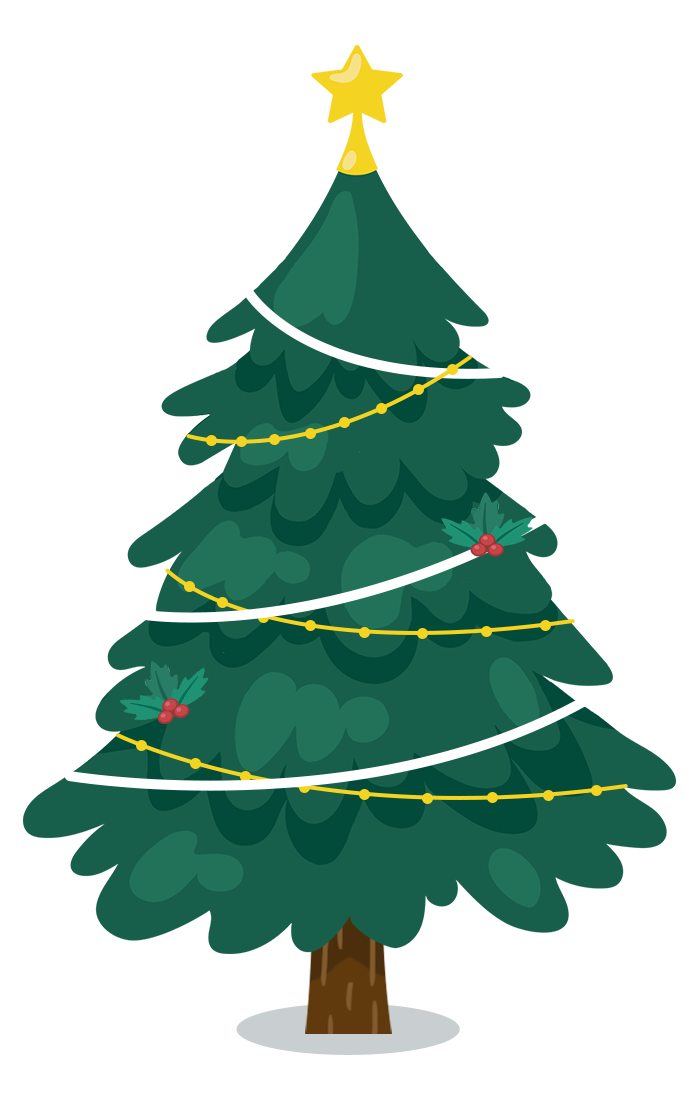
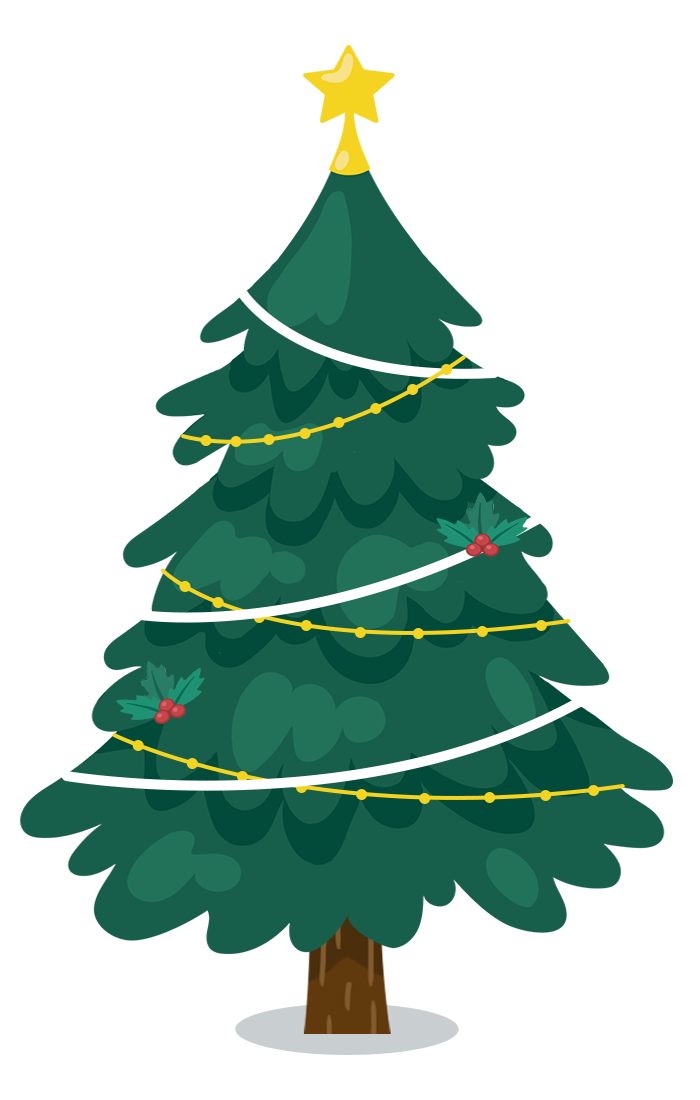
🎄 update page

diff --git a/src/components/Lamp.vue b/src/components/Lamp.vue
@@ -1,0 +1,145 @@
+<template>
+  <div class="lamp" :style="{
+    'transform': `translate3d(${offset.x}px, ${offset.y}px, 0)`
+  }">
+    <svg viewBox="0 0 320 320" :width="width" :height="width">
+      <circle cx="160" cy="10" r="4" fill="#e0eedc" />
+      <circle cx="160" cy="22" r="4" fill="#e0eedc" />
+      <path d="M 160 60 l 20 0 l -8 -30 l -24 0 l -8 30 Z" fill="#e0eedc" />
+      <mask :id="maskId">
+        <path class="path" v-if="d" :d="d" fill="white" />
+      </mask>
+      <path class="path" v-if="d" :d="d" :fill="color0" />
+      <g class="texture" :mask="`url(#${maskId})`"><texture :typeIndex="t1" v-if="color1" scale="1.4" :fill="color1" /></g>
+      <g class="texture" :mask="`url(#${maskId})`"><texture :typeIndex="t2" v-if="color2" scale="1.2" :fill="color2" /></g>
+      <g class="texture" :mask="`url(#${maskId})`"><texture :typeIndex="t3" v-if="color3" scale="1.0" :fill="color3" /></g>
+      <path class="path" v-if="d" :d="d" fill="none" stroke="#e0eedc" stroke-width="10" />
+    </svg>
+  </div>
+</template>
+
+<script>
+import { Texture } from '../texture'
+
+const _S = 20 // subdivision
+const PI_S = 2 * Math.PI / _S
+const sinS = []
+const cosS = []
+for (let i = 0; i < _S; i++) {
+  sinS.push(Math.sin(PI_S * i))
+  cosS.push(Math.cos(PI_S * i))
+}
+
+const genControlPoints = (points) => {
+  const dis = points.map((p, i, points) => {
+    let prev = i - 1
+    if (prev < 0) {
+      prev += points.length
+    }
+    const prevP = points[prev]
+    return Math.sqrt(Math.pow(p.x - prevP.x, 2) + Math.pow(p.y - prevP.y, 2))
+  })
+  let p1 = points[points.length - 1]
+  const controlPoints = points.map((p, i, points) => {
+    let next = i + 1
+    if (next >= points.length) {
+      next -= points.length
+    }
+    const p2 = points[next]
+    const v1 = [(p1.x - p.x) / dis[i], (p1.y - p.y) / dis[i]]
+    const v2 = [(p2.x - p.x) / dis[next], (p2.y - p.y) / dis[next]]
+    const tangent = [v2[0] - v1[0], v2[1] - v1[1]]
+    const cpLeft = {
+      x: p.x - tangent[0] * dis[i] * 0.15,
+      y: p.y - tangent[1] * dis[i] * 0.15
+    }
+    const cpRight = {
+      x: p.x + tangent[0] * dis[next] * 0.15,
+      y: p.y + tangent[1] * dis[next] * 0.15
+    }
+    p1 = p
+    return { cpLeft, cpRight }
+  })
+
+  return controlPoints
+}
+
+const decodeColor = (hex) => {
+  const value = Number('0x' + hex)
+  if (!value) {
+    return ''
+  }
+  const b = value % 128
+  const h = (value - b) / 128
+  return `hsl(${h}, 100%, ${b / 2}%)`
+}
+
+export default {
+  name: 'Lamp',
+  props: ['info', 'size', 'offset'],
+  data () {
+    return {
+      d: '',
+      t1: 0,
+      t2: 0,
+      t3: 0,
+      color0: '',
+      color1: '',
+      color2: '',
+      color3: ''
+    }
+  },
+  computed: {
+    maskId () {
+      return 'mask-' + this.info
+    },
+    width () {
+      return this.size || 66 + 'px'
+    }
+  },
+  created () {
+    const info = this.info.replace(/0x/, '')
+    const pointS = info.substr(0, 40).match(/\w{2}/g).map(item => {
+      return Number('0x' + item)
+    }).map((dis, i) => {
+      return {
+        x: -sinS[i] * dis,
+        y: cosS[i] * dis
+      }
+    })
+    const ctrlPointS = genControlPoints(pointS)
+    let d = `M ${pointS[_S - 1].x} ${pointS[_S - 1].y} `
+    for (let i = 0; i < _S; i++) {
+      const p = pointS[i]
+      const cp1 = (i === 0 ? ctrlPointS[_S - 1] : ctrlPointS[i - 1]).cpRight
+      const cp2 = ctrlPointS[i].cpLeft
+      d += ` C ${cp1.x} ${cp1.y}, ${cp2.x} ${cp2.y}, ${p.x} ${p.y}`
+    }
+    d += ' Z'
+    this.d = d
+    this.color0 = decodeColor(info.substr(40, 4))
+    this.color1 = decodeColor(info.substr(44, 4))
+    this.color2 = decodeColor(info.substr(50, 4))
+    this.color3 = decodeColor(info.substr(56, 4))
+    this.t1 = Number('0x' + info.substr(48, 2))
+    this.t2 = Number('0x' + info.substr(54, 2))
+    this.t3 = Number('0x' + info.substr(60, 2))
+  },
+  components: {
+    Texture
+  }
+}
+</script>
+
+<style lang="stylus" scoped>
+.lamp
+  position absolute
+  top 0
+  left 50%
+svg
+  transform translate3d(-50%, 0, 0)
+.path
+  transform translate3d(160px, 172px, 0)
+.texture g
+  transform-origin 160px 172px
+</style>

diff --git a/src/App.vue b/src/App.vue
@@ -3,7 +3,9 @@
     <let-it-snow v-bind="snowConf" :show="snow"></let-it-snow>
     <p v-if="!hasTree" class="tree-info">你还没有自己的圣诞树</p>
     <p v-else class="tree-info">{{owner === me ? '我' : owner}} 的圣诞树</p>
-    <div :style="{ 'opacity': hasTree ? 1 : .5 }" id="tree" />
+    <div :style="{ 'opacity': hasTree ? 1 : .5 }" id="tree">
+      <lamp v-for="(info, i) in treeLamps" :key="i" :info="info" size="66" :offset="lampPos[i]" />
+    </div>
     <draw-lamp v-if="route === 'add'" @finish="backToHome" />
     <div class="notice" v-if="!me">
       您现在以游客身份浏览
@@ -17,7 +19,21 @@
 </template>
 
 <script>
+import Lamp from '@/components/Lamp'
 import DrawLamp from '@/components/DrawLamp'
+
+const lampPos = [
+  { x: -16, y: 148 },
+  { x: 37, y: 212 },
+  { x: -42, y: 241 },
+  { x: 70, y: 297 },
+  { x: 0, y: 327 },
+  { x: -78, y: 337 },
+  { x: 114, y: 397 },
+  { x: -119, y: 411 },
+  { x: -42, y: 416 },
+  { x: 40, y: 428 }
+]
 
 export default {
   name: 'App',
@@ -40,6 +56,7 @@ export default {
       loading: true,
       hasTree: false,
       treeLamps: [],
+      lampPos,
       route: ''
     }
   },
@@ -55,7 +72,14 @@ export default {
       this.treeLamps = [
[11 lines of base64/hex data omitted]
       ]
     }
     this.getWeChatUserName().then(({ name, ok }) => {
@@ -88,6 +112,7 @@ export default {
     }
   },
   components: {
+    Lamp,
     DrawLamp
   }
 }

diff --git a/src/components/DrawLamp.vue b/src/components/DrawLamp.vue
@@ -241,7 +241,7 @@ export default {
     submit () {
       // eslint-disable-next-line
       let code = this.disS.reduce((prev, current) => {
-        return prev + Math.min(current, 255).toString(16)
+        return prev + Math.min(current, 255).toString(16).padStart(2, '0')
       }, '0x')
       code += encodeColor(this.color0)
       code += encodeColor(this.color1) + this.t1.toString(16).padStart(2, '0')
